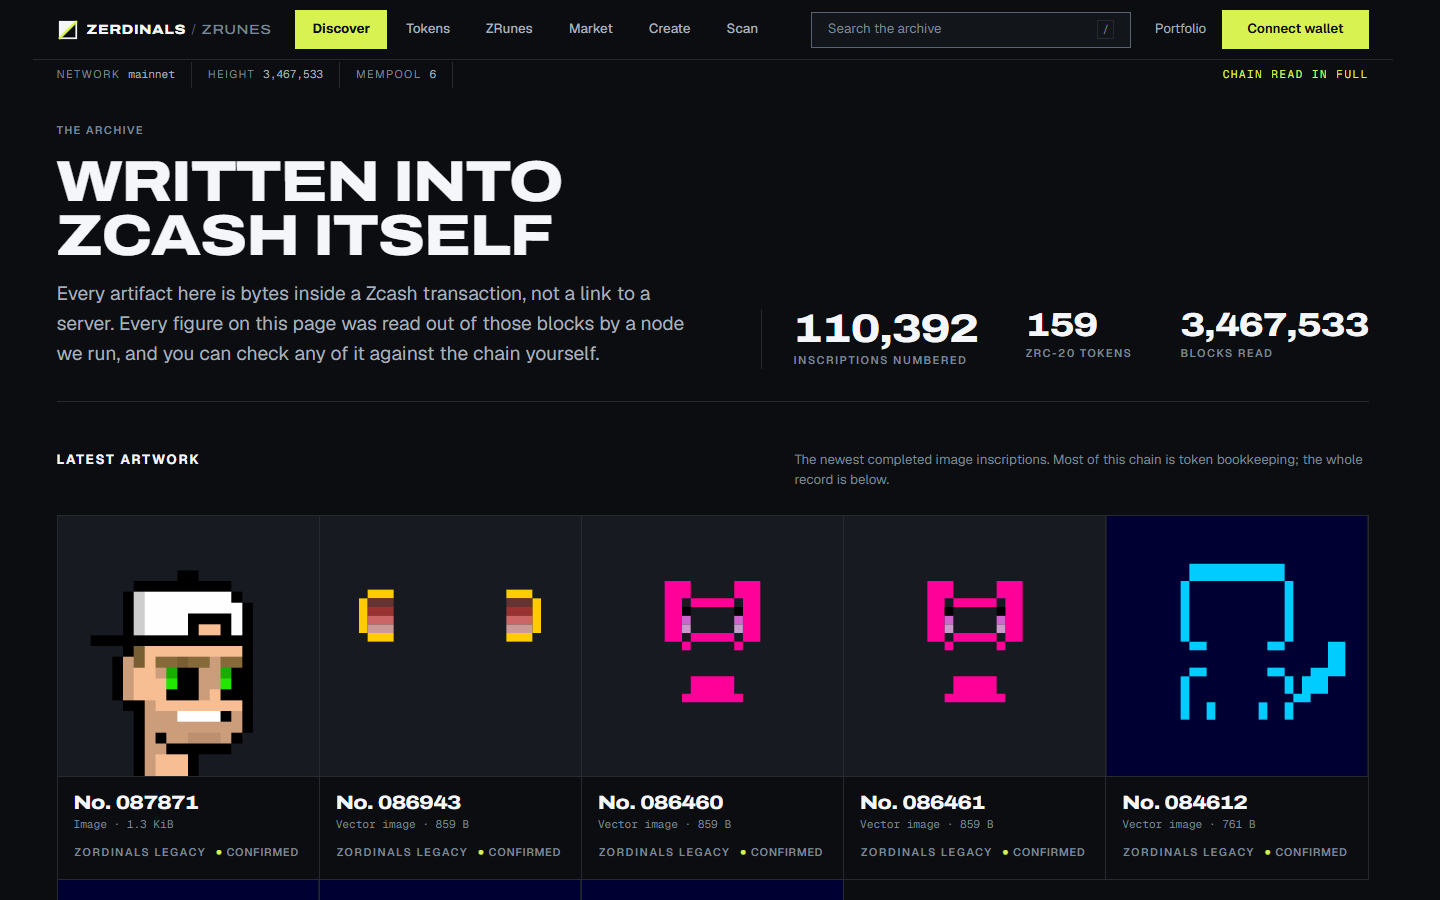
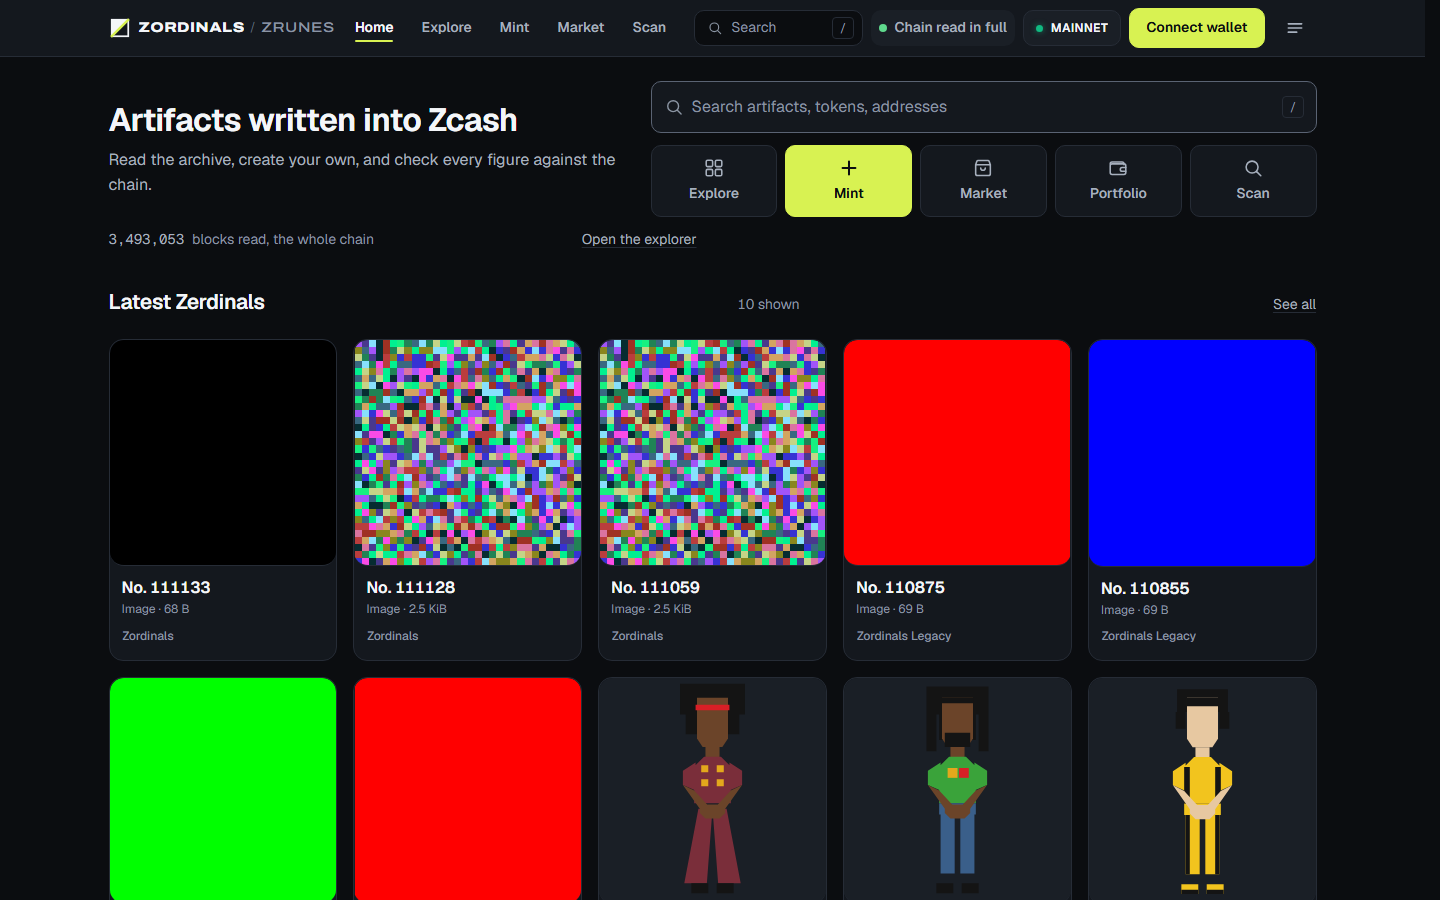
docs(status): every creation operation open on mainnet, release 39176f5f
Refreshes status.json from the deployed product, replaces the lead that said
marketplace qualification was incomplete, and recaptures the discover
screenshot at the deployed commit.

diff --git a/public/screenshots/MANIFEST.md b/public/screenshots/MANIFEST.md
@@ -5,7 +5,7 @@ can be detected and regenerated identically.
 
 | File | Product commit | URL | Viewport | Theme | Captured | Command |
 | --- | --- | --- | --- | --- | --- | --- |
-| discover-1440-dark.png | 618800fbfc628a3e8a80cd8b493c2d363aa57e61 | https://zrunes.io/ | 1440x900 | dark | 2026-08-31 | Playwright chromium: goto, networkidle, 3s settle, viewport screenshot |
+| discover-1440-dark.png | 39176f5f722f51ec13cb5d85a125af89be1e72e3 | https://zrunes.io/ | 1440x900 | dark | 2026-09-23 | Playwright chromium: goto, networkidle, 3s settle, viewport screenshot |
 
 Regeneration: run a Playwright chromium page at the listed viewport with
 `colorScheme` set to the listed theme against the listed URL, wait for
